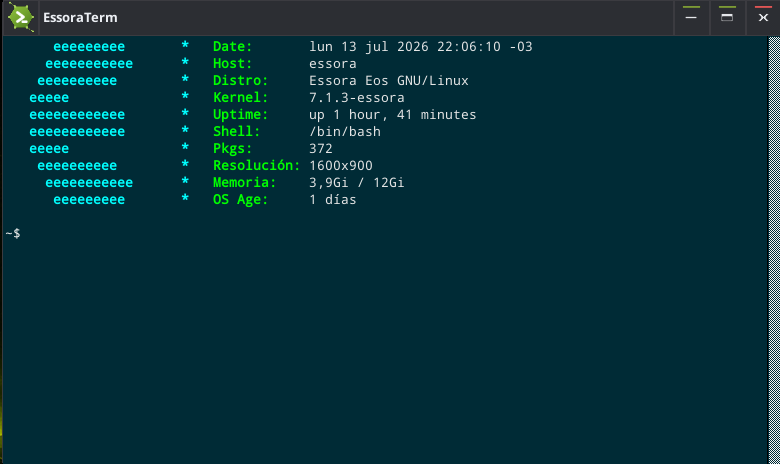
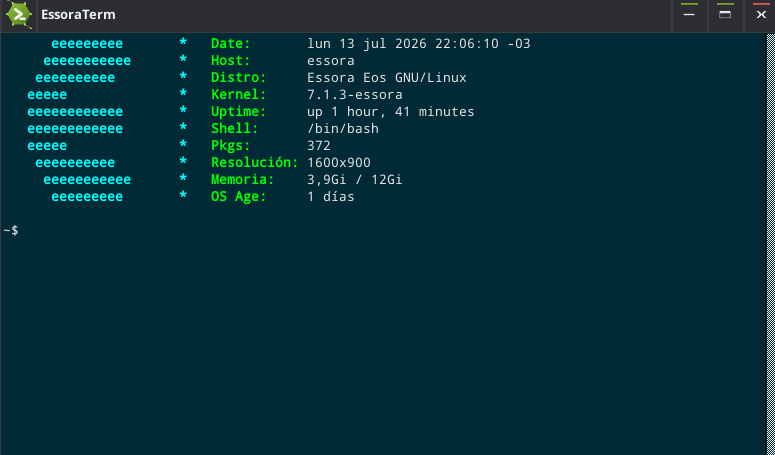
update readme

Changed region(s): [[0.0, 0.0, 1.0, 1.0], [0.4026, 0.3385, 0.5265, 0.4615]]

diff --git a/README.md b/README.md
@@ -39,7 +39,7 @@ EssoraTerm does not use Python.
 <p align="center">
   <img src="screenshot/essoraterm_github.png"
        alt="EssoraTerm terminal emulator"
-       width="850">
+       width="760">
 </p>
 
 ## Main Features